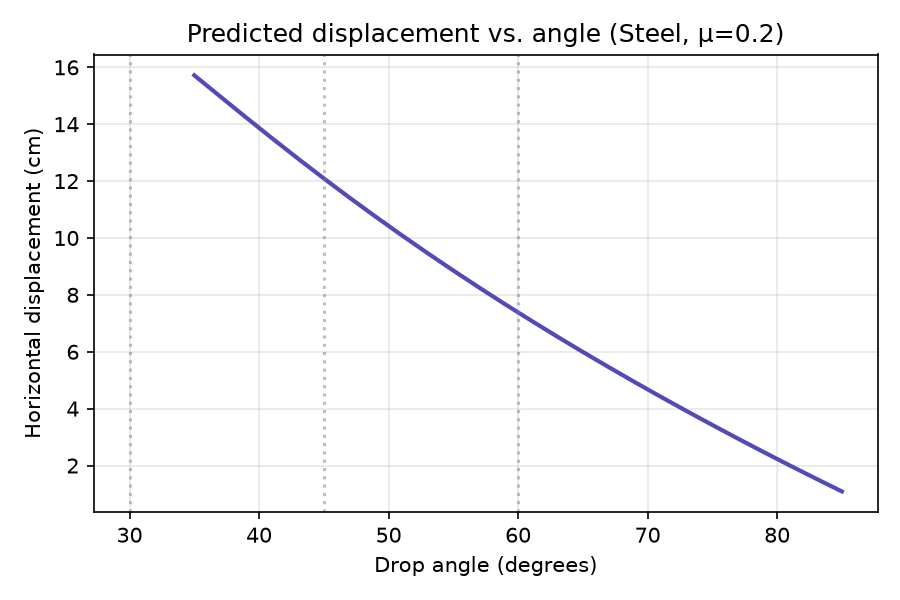
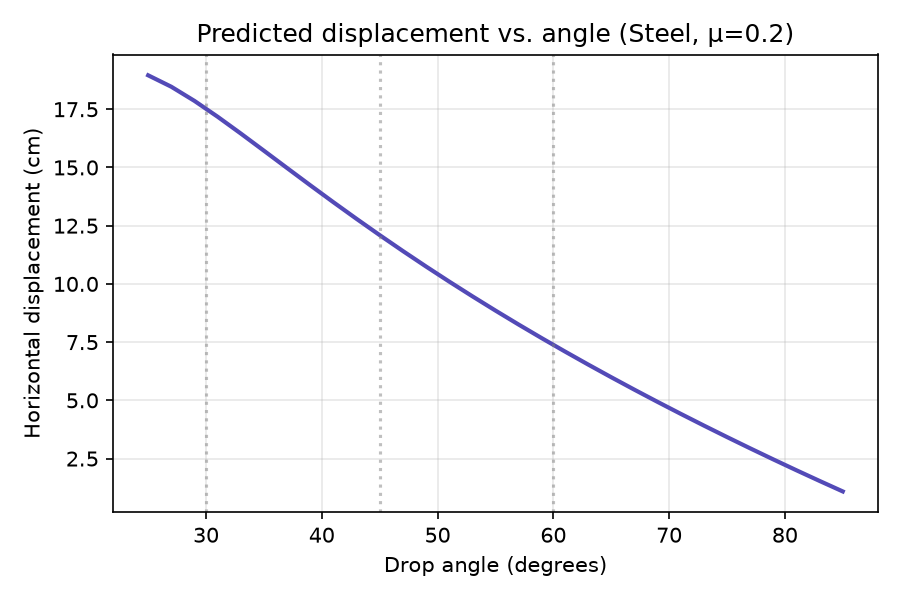
Add UTF-8 stdout fix to plot_comparison.py (missed in earlier pass)
Same cp1252 UnicodeEncodeError as the other tools when output is
redirected; the graph itself saved fine.

diff --git a/tools/plot_comparison.py b/tools/plot_comparison.py
@@ -15,6 +15,10 @@ import warnings
 import statistics
 import numpy as np
 
+# Force UTF-8 stdout so redirected output doesn't crash on arrow chars
+if hasattr(sys.stdout, "reconfigure"):
+    sys.stdout.reconfigure(encoding="utf-8", errors="replace")
+
 # Set display backend BEFORE pyplot is imported, so DropTest's Agg call won't override it
 import matplotlib
 matplotlib.use("TkAgg")